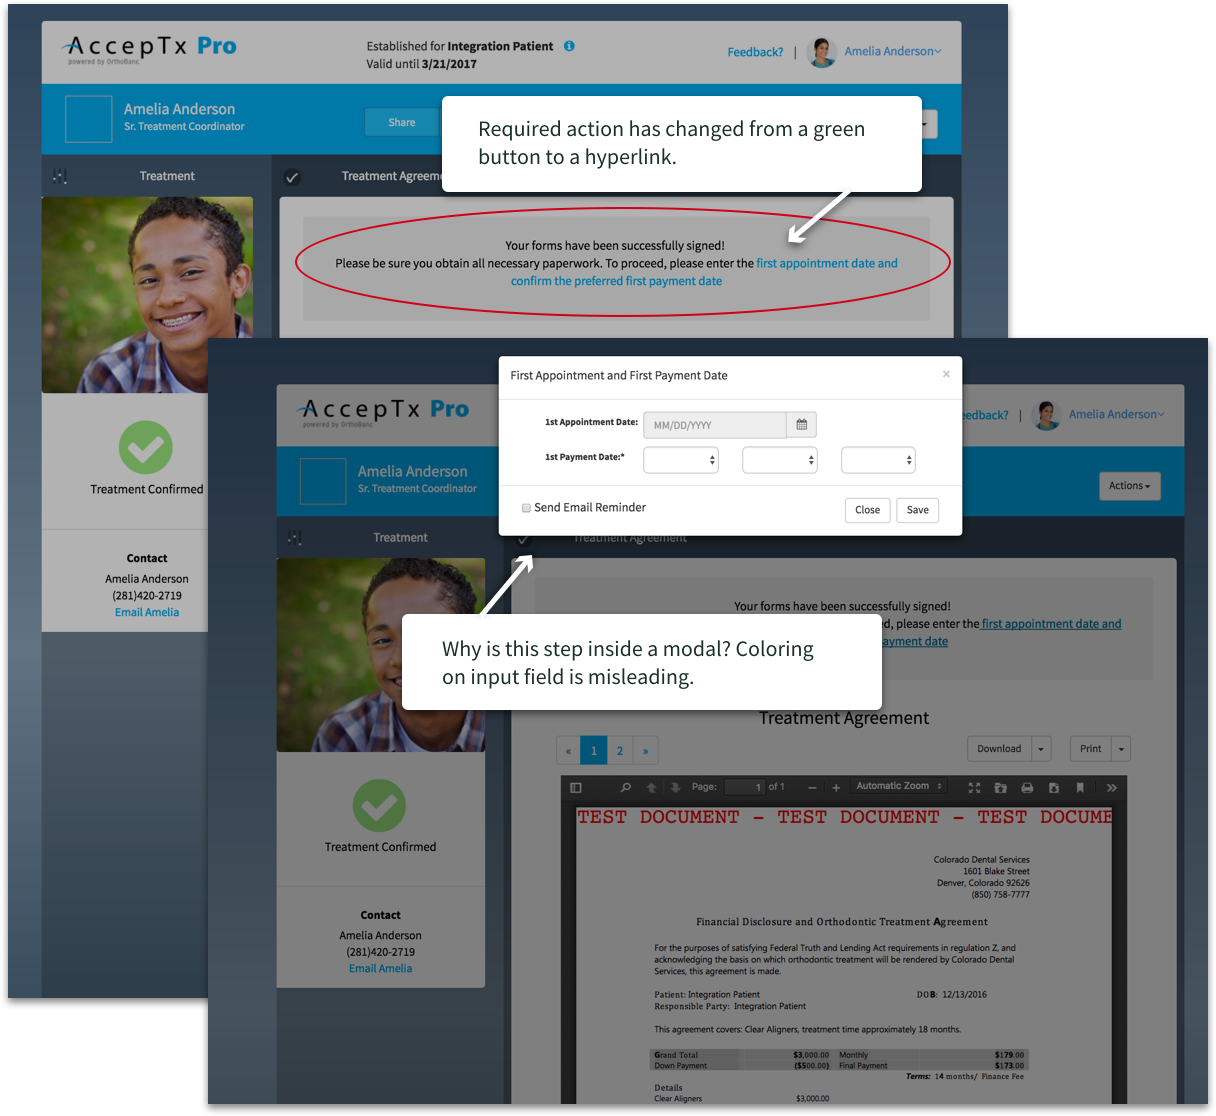
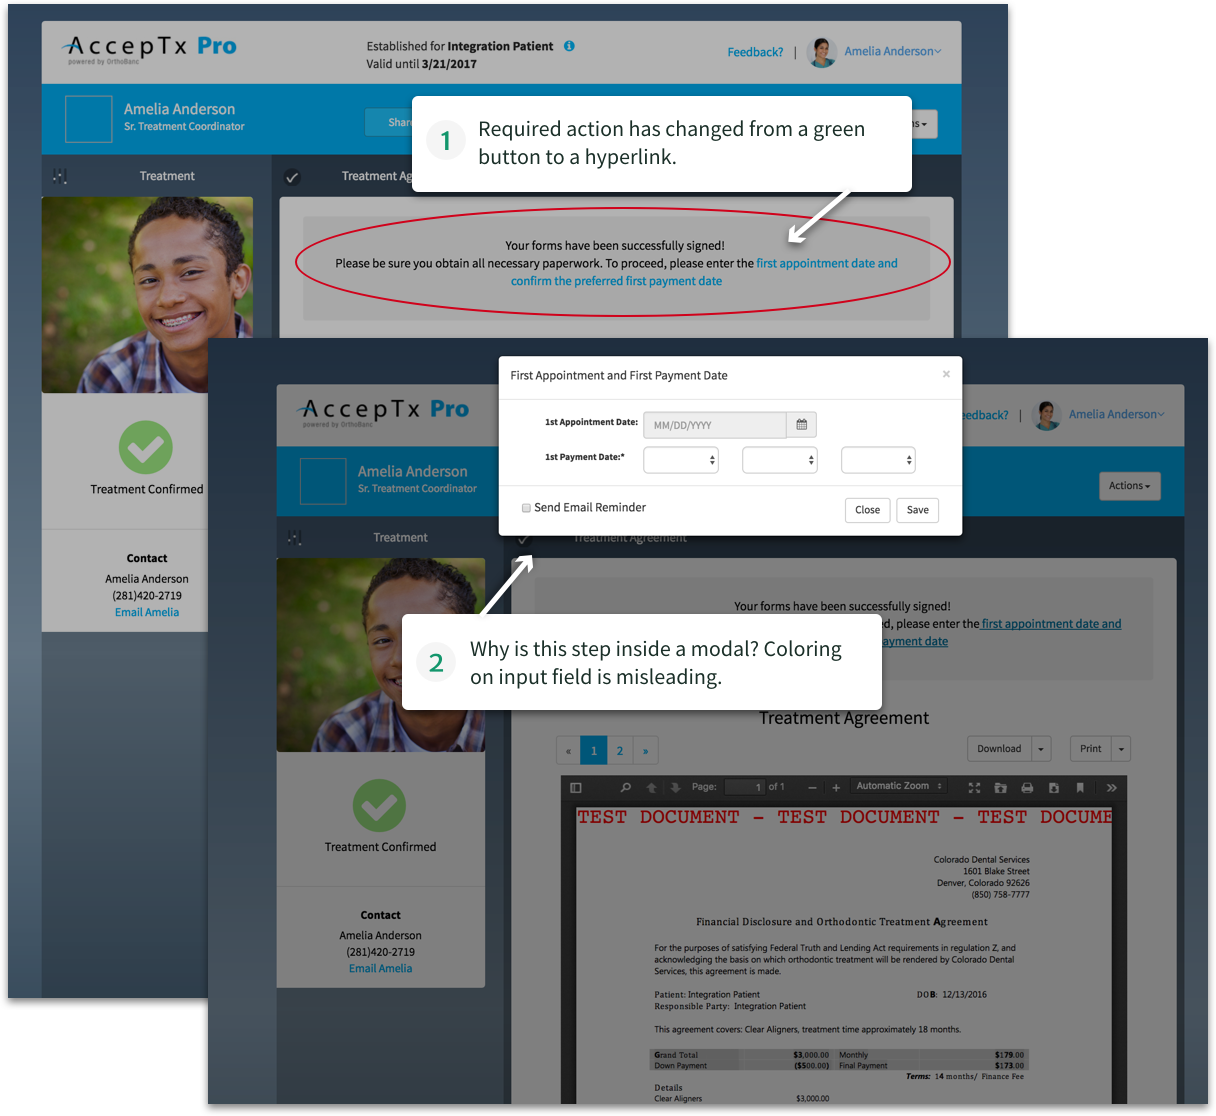
adding AP Step 2, starting AP Step 3

Changed region(s): [[0.3438, 0.5789, 0.6875, 0.6398], [0.3125, 0.0609, 0.375, 0.1828], [0.75, 0.0914, 0.7812, 0.1828]]

diff --git a/src/pages/rethinking-the-payment-portal.html b/src/pages/rethinking-the-payment-portal.html
@@ -136,8 +136,6 @@
       </div>
     </div>
     <div class="grid-x grid-padding-x apSteps">
-      <div class="small-12 cell">
-      </div>
       <div class="small-12 large-6 cell">
         <h2>Step 1: Before</h2>
         <img src="{{root}}/assets/img/ap/apStep1Before.png" alt="AP Step 1 Before Image">
@@ -145,7 +143,7 @@
           <li>
             <div class="grid-x grid-margin-x">
               <div class="shrink cell">
-                <span class="icon icon-apStep1-1"></span>
+                <span class="icon icon-apSteps1"></span>
               </div>
               <div class="cell auto">
                 <h3>Understated primary action</h3>
@@ -156,7 +154,7 @@
           <li>
             <div class="grid-x grid-margin-x">
               <div class="shrink cell">
-                <span class="icon icon-apStep1-2"></span>
+                <span class="icon icon-apSteps2"></span>
               </div>
               <div class="cell auto">
                 <h3>Does the sidebar add value?</h3>
@@ -167,7 +165,7 @@
           <li>
             <div class="grid-x grid-margin-x">
               <div class="shrink cell">
-                <span class="icon icon-apStep1-3"></span>
+                <span class="icon icon-apSteps3"></span>
               </div>
               <div class="cell auto">
                 <h3>Why show PDFs?</h3>
@@ -224,13 +222,187 @@
     <div class="grid-x grid-padding-x apSteps">
       <div class="small-12 large-6 cell">
         <h2>Step 2: Before</h2>
-        <img src="{{root}}/assets/img/apStep2Before.png" alt="Step 2 Before Image">
-
+        <img src="{{root}}/assets/img/ap/apStep2Before.png" alt="Step 2 Before Image">
+        <ul class="menu">
+          <li>
+            <div class="grid-x grid-margin-x">
+              <div class="shrink cell">
+                <span class="icon icon-apSteps1"></span>
+              </div>
+              <div class="cell auto">
+                <h3>Inconsistent styling</h3>
+                <p>The 'next step' link has changed from a green button to a link, making it more difficult for the user to find what to do next.</p>
+              </div>
+            </div>
+          </li>
+          <li>
+            <div class="grid-x grid-margin-x">
+              <div class="shrink cell">
+                <span class="icon icon-apSteps2"></span>
+              </div>
+              <div class="cell auto">
+                <h3>Why use a modal?</h3>
+                <p>Again a problem with inconsistency - why does this date picker need to be in a modal? Secondly, the Appointment Date input field looks disabled initially - it is not.</p>
+              </div>
+            </div>
+          </li>
+        </ul>
       </div>
       <div class="small-12 large-6 cell">
         <h2>Step 2: After</h2>
-        <img src="{{root}}/assets/img/apStep2After.png" alt="Step 2 After Image">
-
+        <img src="{{root}}/assets/img/ap/apStep2After.png" alt="Step 2 After Image">
+        <ul class="menu">
+          <li>
+            <div class="grid-x grid-margin-x">
+              <div class="shrink-cell">
+                <span class="icon icon-apLayout"></span>
+              </div>
+              <div class="cell auto">
+                <h3>Consistent Layout</h3>
+                <p>The page layout and elements are consistent throughout the steps. This allows the eye to quickly focus on new or changed text or elements.</p>
+              </div>
+            </div>
+          </li>
+          <li>
+            <div class="grid-x grid-margin-x">
+              <div class="shrink-cell">
+                <span class="icon icon-apCalendar"></span>
+              </div>
+              <div class="cell auto">
+                <h3>Consistent date input</h3>
+                <p>Corrected inconsistencies with date formatting and coloring to eliminate confusion.</p>
+              </div>
+            </div>
+          </li>
+        </ul>
     </div>
   </div>
+  <div class="grid-x grid-padding-x apSteps">
+    <div class="small-12 large-6 cell">
+      <h2>Step 3: Before</h2>
+      <div class="orbit" role="region" aria-label="Favorite Space Pictures" data-orbit data-options="data-auto-play: false; data-infinite-wrap: false;">
+        <div class="orbit-wrapper">
+          <div class="orbit-controls">
+            <button class="orbit-previous"><span class="show-for-sr">Previous Slide</span>&#9664;&#xFE0E;</button>
+            <button class="orbit-next"><span class="show-for-sr">Next Slide</span>&#9654;&#xFE0E;</button>
+          </div>
+          <ul class="orbit-container">
+            <li class="orbit-slide is-active">
+              <figure class="orbit-figure">
+                <img class="orbit-image" src="assets/img/orbit/01.jpg" alt="Space">
+              </figure>
+            </li>
+            <li class="orbit-slide">
+              <figure class="orbit-figure">
+                <img class="orbit-image" src="assets/img/orbit/01.jpg" alt="Space">
+              </figure>
+            </li>
+            <li class="orbit-slide">
+              <figure class="orbit-figure">
+                <img class="orbit-image" src="assets/img/orbit/01.jpg" alt="Space">
+              </figure>
+            </li>
+            <li class="orbit-slide">
+              <figure class="orbit-figure">
+                <img class="orbit-image" src="assets/img/orbit/01.jpg" alt="Space">
+              </figure>
+            </li>
+          </ul>
+        </div>
+        <nav class="orbit-bullets">
+         <button class="is-active" data-slide="0"><span class="show-for-sr">First slide details.</span><span class="show-for-sr">Current Slide</span></button>
+         <button data-slide="1"><span class="show-for-sr">Second slide details.</span></button>
+         <button data-slide="2"><span class="show-for-sr">Third slide details.</span></button>
+         <button data-slide="3"><span class="show-for-sr">Fourth slide details.</span></button>
+       </nav>
+      </div>
+      <ul class="menu">
+        <li>
+          <div class="grid-x grid-margin-x">
+            <div class="shrink cell">
+              <span class="icon icon-apSteps1"></span>
+            </div>
+            <div class="cell auto">
+              <h3>Inconsistent styling</h3>
+              <p>The 'next step' link has changed from a green button to a link, making it more difficult for the user to find what to do next.</p>
+            </div>
+          </div>
+        </li>
+        <li>
+          <div class="grid-x grid-margin-x">
+            <div class="shrink cell">
+              <span class="icon icon-apSteps2"></span>
+            </div>
+            <div class="cell auto">
+              <h3>Why use a modal?</h3>
+              <p>Again a problem with inconsistency - why does this date picker need to be in a modal? Secondly, the Appointment Date input field looks disabled initially - it is not.</p>
+            </div>
+          </div>
+        </li>
+      </ul>
+    </div>
+    <div class="small-12 large-6 cell">
+      <h2>Step 3: After</h2>
+      <div class="orbit" role="region" aria-label="Favorite Space Pictures" data-orbit data-options="data-auto-play: false; data-infinite-wrap: false;">
+        <div class="orbit-wrapper">
+          <div class="orbit-controls">
+            <button class="orbit-previous"><span class="show-for-sr">Previous Slide</span>&#9664;&#xFE0E;</button>
+            <button class="orbit-next"><span class="show-for-sr">Next Slide</span>&#9654;&#xFE0E;</button>
+          </div>
+          <ul class="orbit-container">
+            <li class="orbit-slide is-active">
+              <figure class="orbit-figure">
+                <img class="orbit-image" src="assets/img/orbit/01.jpg" alt="Space">
+              </figure>
+            </li>
+            <li class="orbit-slide">
+              <figure class="orbit-figure">
+                <img class="orbit-image" src="assets/img/orbit/01.jpg" alt="Space">
+              </figure>
+            </li>
+            <li class="orbit-slide">
+              <figure class="orbit-figure">
+                <img class="orbit-image" src="assets/img/orbit/01.jpg" alt="Space">
+              </figure>
+            </li>
+            <li class="orbit-slide">
+              <figure class="orbit-figure">
+                <img class="orbit-image" src="assets/img/orbit/01.jpg" alt="Space">
+              </figure>
+            </li>
+          </ul>
+        </div>
+        <nav class="orbit-bullets">
+         <button class="is-active" data-slide="0"><span class="show-for-sr">First slide details.</span><span class="show-for-sr">Current Slide</span></button>
+         <button data-slide="1"><span class="show-for-sr">Second slide details.</span></button>
+         <button data-slide="2"><span class="show-for-sr">Third slide details.</span></button>
+         <button data-slide="3"><span class="show-for-sr">Fourth slide details.</span></button>
+       </nav>
+      </div>
+      <ul class="menu">
+        <li>
+          <div class="grid-x grid-margin-x">
+            <div class="shrink-cell">
+              <span class="icon icon-apLayout"></span>
+            </div>
+            <div class="cell auto">
+              <h3>Consistent Layout</h3>
+              <p>The page layout and elements are consistent throughout the steps. This allows the eye to quickly focus on new or changed text or elements.</p>
+            </div>
+          </div>
+        </li>
+        <li>
+          <div class="grid-x grid-margin-x">
+            <div class="shrink-cell">
+              <span class="icon icon-apCalendar"></span>
+            </div>
+            <div class="cell auto">
+              <h3>Consistent date input</h3>
+              <p>Corrected inconsistencies with date formatting and coloring to eliminate confusion.</p>
+            </div>
+          </div>
+        </li>
+      </ul>
+  </div>
+</div>
 </div>

diff --git a/src/assets/scss/components/_icons.scss b/src/assets/scss/components/_icons.scss
@@ -1,4 +1,13 @@
 
+.icon-apCalendar {
+  content: url("../img/ap/apCalendar.svg");
+}
+
+.no-svg .icon-apCalendar {
+  content: url("../img/ap/apCalendar.png");
+}
+
+
 .icon-apExternalLink {
   content: url("../img/ap/apExternalLink.svg");
 }
@@ -15,6 +24,15 @@
   content: url("../img/ap/apForm.png");
 }
 
+.icon-apLayout {
+  content: url("../img/ap/apLayout.svg");
+}
+
+.no-svg .icon-apForm {
+  content: url("../img/ap/apLayout.png");
+}
+
+
 .icon-apStepAdded {
   content: url("../img/ap/apStepAdded.svg");
 }
@@ -23,28 +41,28 @@
   content: url("../img/ap/apStepAdded.png");
 }
 
-.icon-apStep1-1 {
-  content: url("../img/ap/apStep1-1.svg");
+.icon-apSteps1 {
+  content: url("../img/ap/apSteps1.svg");
 }
 
-.no-svg .icon-apStep1-1 {
-  content: url("../img/ap/apStep1-1.png");
+.no-svg .icon-apSteps1 {
+  content: url("../img/ap/apSteps1.png");
 }
 
-.icon-apStep1-2 {
-  content: url("../img/ap/apStep1-2.svg");
+.icon-apSteps2 {
+  content: url("../img/ap/apSteps2.svg");
 }
 
-.no-svg .icon-apStep1-2 {
-  content: url("../img/ap/apStep1-2.png");
+.no-svg .icon-apSteps2 {
+  content: url("../img/ap/apSteps2.png");
 }
 
-.icon-apStep1-3 {
-  content: url("../img/ap/apStep1-3.svg");
+.icon-apSteps3 {
+  content: url("../img/ap/apSteps3.svg");
 }
 
-.no-svg .icon-apStep1-3 {
-  content: url("../img/ap/apStep1-3.png");
+.no-svg .icon-apSteps3 {
+  content: url("../img/ap/apSteps3.png");
 }
 
 .icon-confusion {
